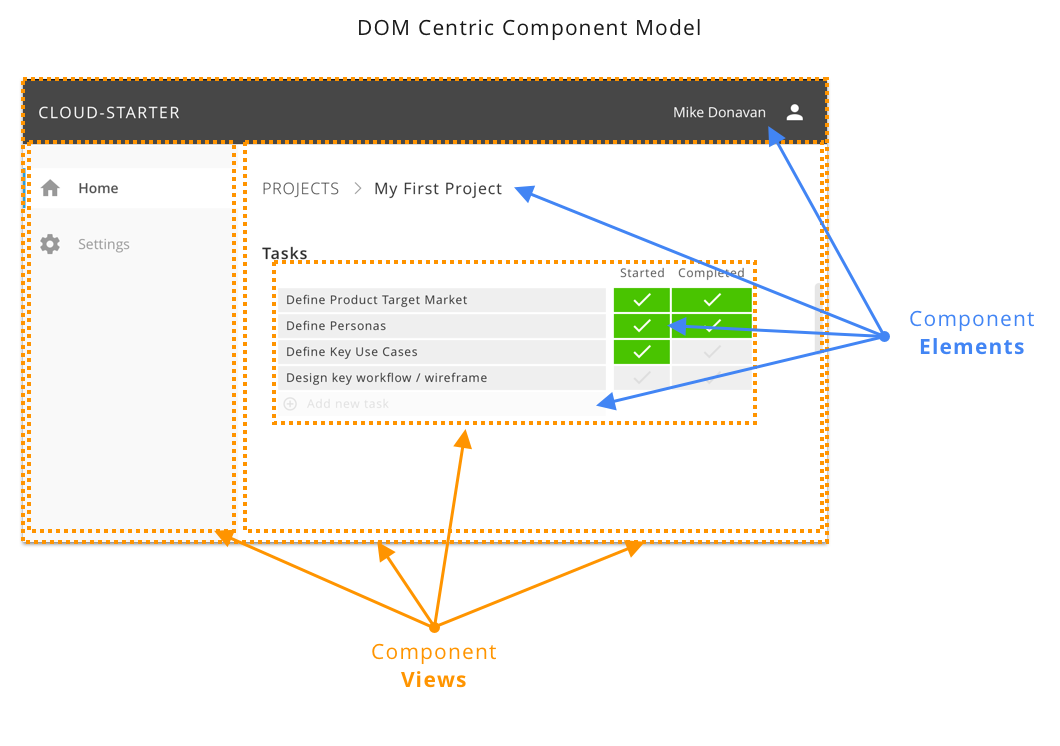
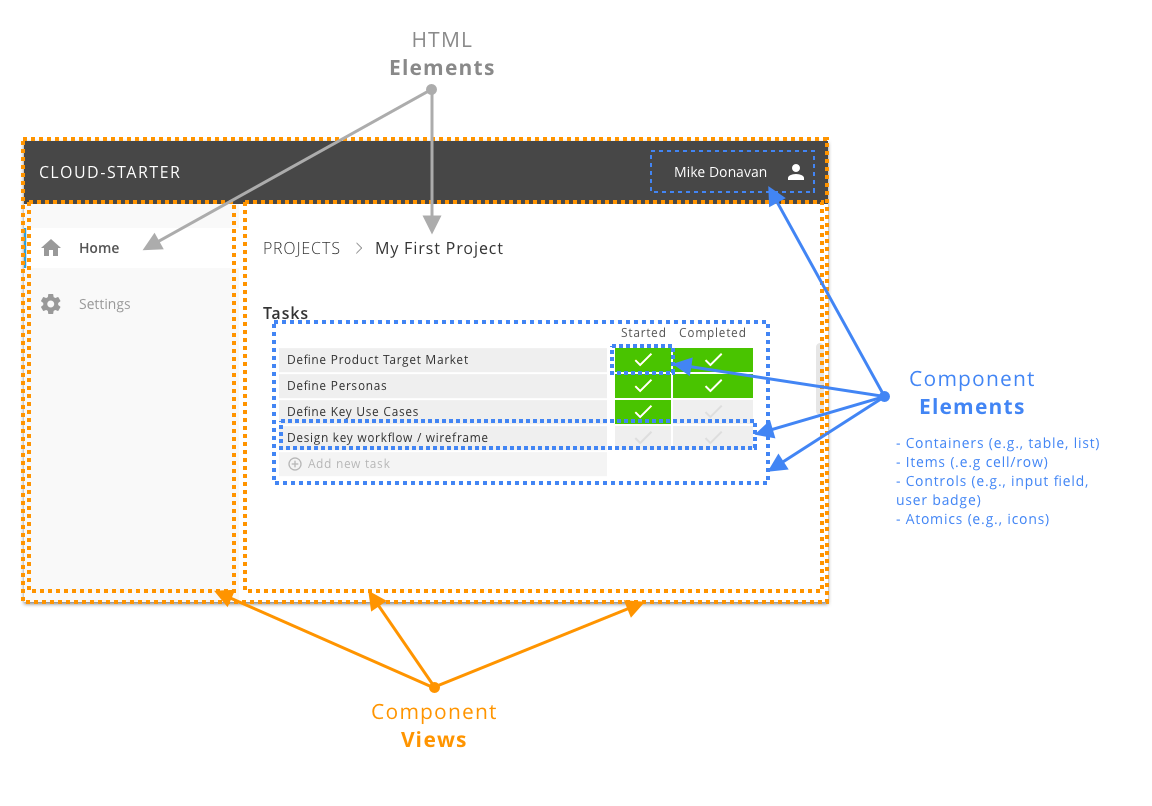
. doc - udpate ui doc

Changed region(s): [[0.0, 0.0308, 0.9651, 0.9249]]

diff --git a/doc/ui.md b/doc/ui.md
@@ -4,16 +4,57 @@ _[back](README.md)_
 
 ![](images/ui-component-model.png)
 
+```html
+<html>
+<head></head>
+<body>
+<v-main>
+  <header><h1>CLOUD-STARTER</h1> <c-user>...</c-user></header>
+  <v-nav>...</v-nav>
+  <main>
+    <v-project>
+      <header>...</header>
+      <section>
+        <h3>Tasks</h3>
+        <t-table>....</t-table>
+      </section>
+    <v-project>
+  </main>
+</v-main>
+</body>
+</html>
+```
 ### DOM Centric Approach
 
 This DOM Centric approach consists of using the DOM as a foundation for a simple, robust, and scalable MVC model.
+Here are some of the "native scale better" approaches: 
 
-Components are split into two categories:
+- Using native Web Component, custom elements, and HTML Element as the component model. 
+- Using the DOM event model for child to parent state communication. 
+- Mastering CSS Grid for layout. (.e.g. no other CSS Layout "framework" needed).
+- Scalable component model best practices allowing to scale Native Web Component to build large and modern applications.
 
-  - **Views** are bigger parts of the UI which encapsulates most of the logic and styling at the functional level. Views have a fully asynchronous lifecycle and are responsible for all of the styling and application behaviors (e.g., create/update/delete data items). Views are managed by a DOM Centric micro-library, [mvdom (15kb min)](https://github.com/mvdom/mvdom), which provides fully asynchronous lifecycle management without any DOM Abstraction, allowing Views to fully leverage the DOM Native eventing system.
-    > Note: At this point, `mvdom` **views** are not Web Component, but this will change soon. They will still have the same interface as today, with the async workflow (except that they will be added to the DOM when they are by the container logic/display). Those **_web components_ views** will not be shadowDOM (since they belong more to the global application scope, for style and event propagation point of view), but will share all of the other characteristics. They will be registered with something like `<v-main-view><v-main-view>`
 
-  - **Elements** (e.g. `<c-input name='fieldA'></c-input>`are smaller element from generic HTML Elements to customElements/WebComponents and are responsible for atomic functionalities, like a field-input, button, table cells, custom check boxes, and controls type of element. Not everything small HTML element structure needs to be a custom component, for example, a nav item in the left NavView, can just be clean/simple html/css inside the NavView. Things are are reused across views might be made as Web Component, if they have some logic. If just about the display, it might be enough to have a clean `_pcss/ui-...pcss` file. 
+From a best practice perspective, we can split the Components into the following different categories:
+
+  - **Component Views** are custom elements, usually with the `<v-...` tag prefix, that encapsulates most of the business logic of a part of the UI system. Their responsibilities are as follow: 
+    - Manage Routing of its direct subviews.
+    - There are the ONLY component types that should be able to get/set backend data (via DCOs)
+    - get/set data to their Component Elements.
+    - LISTEN to the Component Element events to update backend data and subviews. 
+    - Examples: 
+      - `MainView` The very top view of the application usually managing routing and other app-wide event/behavior, and initialize the nav view, and the header and top right user display information. 
+      - `NavView` Is responsible of displaying and iter
+    > Note: The current cloud-starter code still use the `mvdom` **views** for those components, but `mvdom` direction is to fully embrace Web Component (e.g., customElements) as the component model, using the `mvdom-xp` BaseHTMLElement base class (which will eventually get merged into `mvdom`). 
+
+  - **Component Elements** (e.g. `<c-input name='fieldA'></c-input>`are UI component that can be used in view or composed with other component elements. Their responsibilities are as follow: 
+    - Exposed clear and typescript typed external interface (typically via properties setter/getter) to parent element to set and get component data. 
+    - Trigger custom events based user Interaction for parent components (not necessarely direct parent) to react. 
+    - MUST NOT access any backend data (.e.g., no call to DCOs), and rather expect the data to be set by a view, or call a `DATA` event with a `.detail{ sendData: (data) => void}` to request data. 
+    - Data format should be from the component purpose and not backend data specific.
+
+  - **HTML Elements** are just raw html elements, such as `<header>` `<section>` `<a>` ... but where custom behavior are not necessary but are still part of the parent component structure for display and user interaction. 
+    > Note: It is important to not over componentize all HTML element, as over componentization is as bad as under componentization. 
 
 
 ### Code Structure
